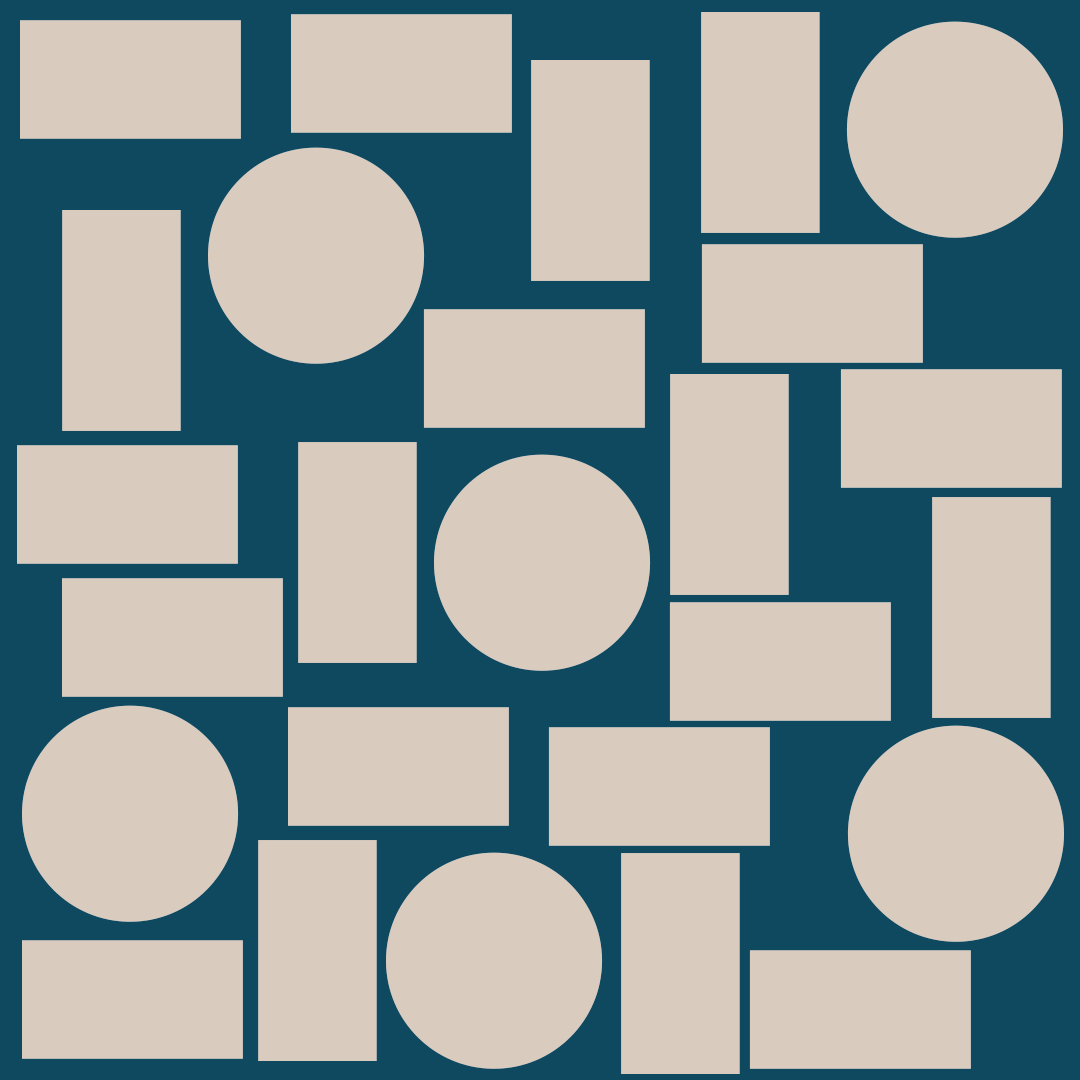
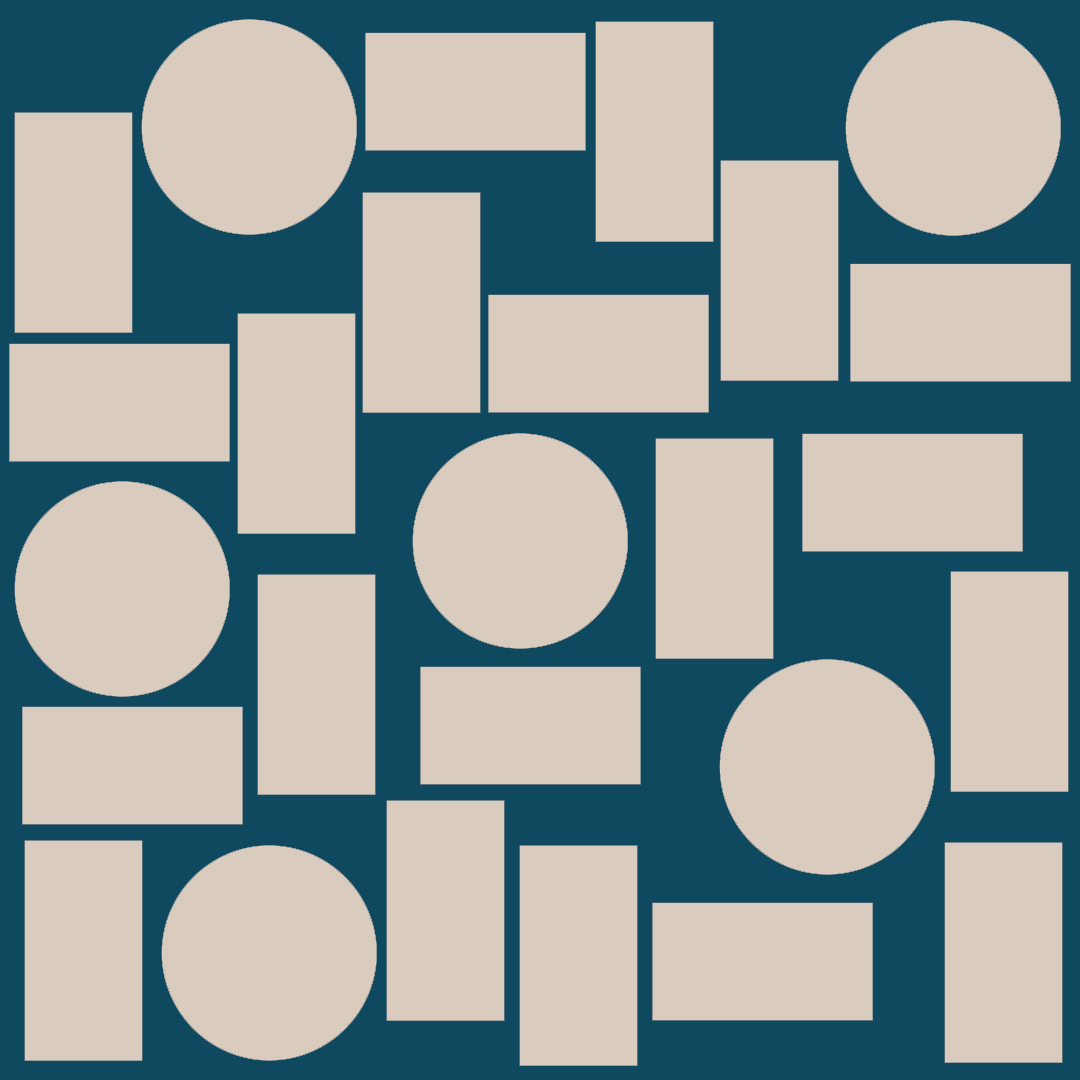
Steampunk: Add level 1, 2

diff --git a/Steampunk/src/game/gameLogic.ts b/Steampunk/src/game/gameLogic.ts
@@ -236,8 +236,8 @@ export class GameLogic {
             const transform = boardLocators.get(`obj_difference1_${i + 1}`)
             let isCorrect = differenceId[i + 1] == i + 1 ? false : true
             let type = "circle"
-            if (transform!.scale.x - transform!.scale.y <= -0.1) type = "vertical"
-            else if (transform!.scale.x - transform!.scale.y >= 0.1) type = "horizontal"
+            if (transform!.scale.x - transform!.scale.y <= -0.05) type = "vertical"
+            else if (transform!.scale.x - transform!.scale.y >= 0.05) type = "horizontal"
             this.objectDifference.set(i, { transform, isCorrect, type, imageNumber: 1 })
             this.objectDifference.set(i + boardLocators.size / 2, { transform, isCorrect, type, imageNumber: 1 })
             typeHandler(i)

diff --git a/Steampunk/src/gameConfig.ts b/Steampunk/src/gameConfig.ts
@@ -17,7 +17,7 @@ export const steampunkGameConfig = {
 export const levelAmount = 5
 
 export const correctTargetAmount = [
-    6, 6, 6, 6, 6
+    1, 2, 6, 6, 6, 6, 6
 ]
 
 export const STEAMPUNK_SYNC_ID = 3000
